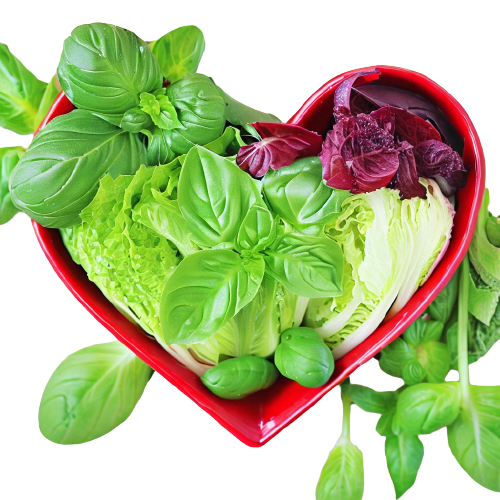
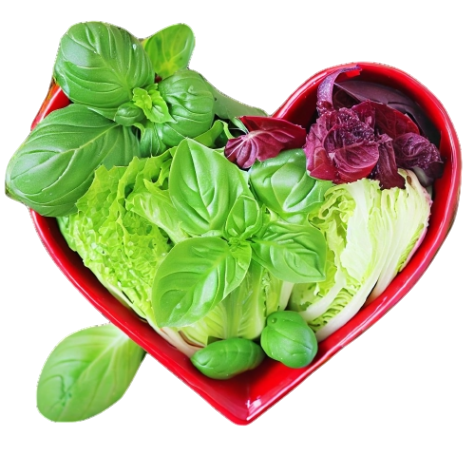
first-fix-slider

diff --git a/public/webassets/assets/css/mainstyle-responsive.min.css b/public/webassets/assets/css/mainstyle-responsive.min.css
@@ -131,7 +131,7 @@ body {
         margin-bottom: 30px;
     }
     .main-slider__img-one {
-        left: 25px;
+        left: 12%;
     }
     .main-slider__shape-3,
     .main-slider__shape-4 {
@@ -713,12 +713,12 @@ body {
         width: 420px;
     }
     .main-slider__img-one {
-        left: -15%;
-        top: 212px;
+        left: 3%;
+        top: 99px;
     }
     .main-slider__shape-9 {
-        right: 62%;
-        top: -16%;
+        right: 15%;
+        top: -34%;
     }
     .main-slider__shape-3 {
         left: 100px !important;
@@ -790,7 +790,7 @@ body {
 }
 @media only screen and (min-width: 1200px) and (max-width: 1400px) {
     .main-slider__img-one {
-        left: 80px;
+        left: 21%;
     }
 }
 @media only screen and (min-width: 767px) and (max-width: 992px) {
@@ -954,38 +954,55 @@ svg[class*="right"] {
 }
 @media only screen and (max-width: 1400px) {
     .main-slider__shape-6 {
-        left: 19px;
+        left: -1%;
+        top: 67%;
     }
     .main-slider__shape-3 {
-        left: 300px;
+        left: 14%;
     }
 }
 @media only screen and (min-width: 320px) and (max-width: 550px) {
     .main-slider__img-one {
-        left: -25%;
-        top: 340px;
+        left: 2%;
+        top: 45px;
+    }
+    .main-slider__shape-7 {
+        top: 0%;
+        left: 36%;
+    }
+    .main-slider__shape-4 {
+        top: 184px;
+        left: -183px;
+    }
+    .main-slider__shape-5 {
+        bottom: 12%;
+        left: 36%;
+    }
+    .main-slider__shape-2 {
+        right: 46%;
+        bottom: 23%;
     }
     .main-slider__shape-3 {
-        left: 35px !important;
-        top: 192px;
+        left: -7px !important;
+        top: 23px;
     }
     .main-slider__shape-1 {
-        top: 230px;
-        right: 266px;
+        top: 70%;
+        right: 10%;
     }
     .main-slider__shape-9 {
-        right: 12%;
-        top: -16%;
+        right: 4%;
+        top: -57%;
     }
 }
 @media only screen and (min-width: 320px) and (max-width: 480px) {
     .main-slider__img-one {
-        left: -25%;
-        top: 425px;
+        left: 3%;
+        top: 50px;
     }
     .main-slider__shape-3 {
-        left: 35px !important;
-        top: 286px;
+        left: -48px !important;
+        top: 16px;
     }
 }
 @media only screen and (min-width: 594px) and (max-width: 767px) {

diff --git a/public/webassets/assets/css/mainstyle.min.css b/public/webassets/assets/css/mainstyle.min.css
@@ -1970,20 +1970,20 @@ ul {
 }
 .main-slider__shape-1 {
     position: absolute;
-    top: 100px;
-    right: 115px;
+    top: 13%;
+    right: 5%;
     z-index: -1;
 }
 .main-slider__shape-2 {
     position: absolute;
-    right: 260px;
-    bottom: 75px;
+    right: 10%;
+    bottom: 10%;
     z-index: -1;
 }
 .main-slider__shape-3 {
     position: absolute;
     top: 40px;
-    left: 425px;
+    left: 17%;
     z-index: 1;
 }
 .main-slider__shape-4,
@@ -1995,29 +1995,29 @@ ul {
     position: absolute;
 }
 .main-slider__shape-4 {
-    top: 210px;
-    left: 150px;
+    top: 224px;
+    left: 129px;
 }
 .main-slider__shape-5 {
-    bottom: 100px;
-    left: 795px;
+    bottom: 45%;
+    left: 57%;
 }
 .main-slider__shape-6 {
-    top: 80px;
-    left: 190px;
+    top: 45%;
+    left: 10%;
 }
 .main-slider__shape-7 {
-    bottom: 130px;
-    left: 345px;
+    bottom: 66%;
+    left: 12%;
 }
 .main-slider__shape-8 {
-    bottom: -60px;
-    left: 170px;
+    bottom: 29%;
+    left: 45%;
 }
 .main-slider__img-one {
     position: absolute;
     top: 105px;
-    left: 490px;
+    left: 21%;
     transform: translateX(-400px);
     z-index: 1;
 }
@@ -2033,8 +2033,8 @@ ul {
 }
 .main-slider__shape-9 {
     position: absolute;
-    right: 460px;
-    top: 20px;
+    right: 38%;
+    top: -56px;
     z-index: -1;
 }
 .main-slider__btn-box,
